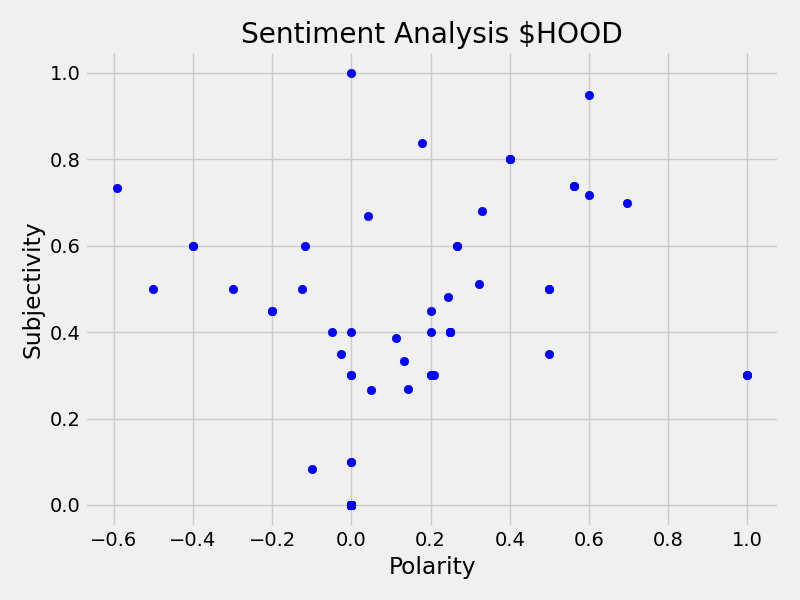
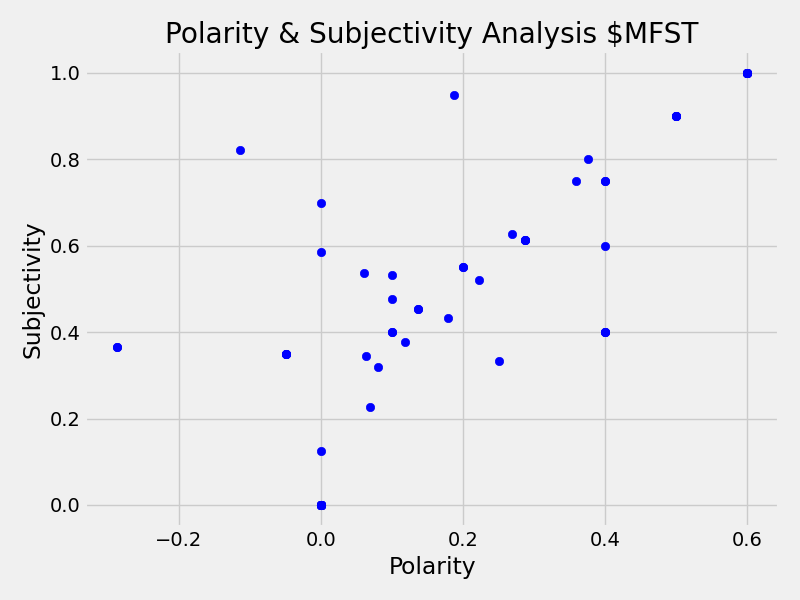
Save view

diff --git a/TwitterStockSentimentAnalyzer/templates/analysisResults.html b/TwitterStockSentimentAnalyzer/templates/analysisResults.html
@@ -1,0 +1,28 @@
+{% extends "layout.html" %}
+
+{% block content %}
+<div class="container" style="background-color: #101010; color: white; ">
+    <h2>{{ title }} {{ message }}</h2>
+    <!--<h3>{{ today}}</h3>-->
+    <div class="row mx-auto" style="margin-top: 2%">
+        <div class=" col-md-5">
+            <img src={{ url[0] }} alt="Chart" height="600" width="700">
+        </div>
+    </div>
+
+    <div class="row mx-auto" style="margin-top: 5%">
+        <div class="col-md-12">
+            <img src={{ url[1] }} alt="Chart" height="600" width="700">
+        </div>
+    </div>
+
+    <div class="row mx-auto" style="margin-top: 5%">
+        <div class="col-md-12">
+            <img src={{ url[2] }} alt="Chart" height="800" width="700">
+        </div>
+        <div>
+
+        </div>
+
+
+        {% endblock %}

diff --git a/TwitterStockSentimentAnalyzer/views.py b/TwitterStockSentimentAnalyzer/views.py
@@ -40,7 +40,7 @@ def home():
       path = os.path.dirname(os.path.realpath(__file__))
       imagedirList = ["/static/images/wordCloud.png"+"?"+str(today) ,"/static/images/plotGraph.png"+"?"+str(today), "/static/images/barGraph.png"+"?"+str(today)]
       return render_template(
-            'contact.html',
+            'analysisResults.html',
             title= ticker.split("$")[1],
             today = today,
             message='Analysis:',

diff --git a/TwitterStockSentimentAnalyzer/TwitterAnalyzer.py b/TwitterStockSentimentAnalyzer/TwitterAnalyzer.py
@@ -101,7 +101,7 @@ class TwitterAnalyzer:
         for i in range(0,df.shape[0]):
             plt.scatter(df['Polarity'][i], df['Subjectivity'][i], color = 'Blue')
 
-        plt.title('Sentiment Analysis '+ ticker)
+        plt.title('Polarity & Subjectivity Analysis '+ ticker)
         plt.xlabel('Polarity')
         plt.ylabel('Subjectivity')
         plt.tight_layout()
